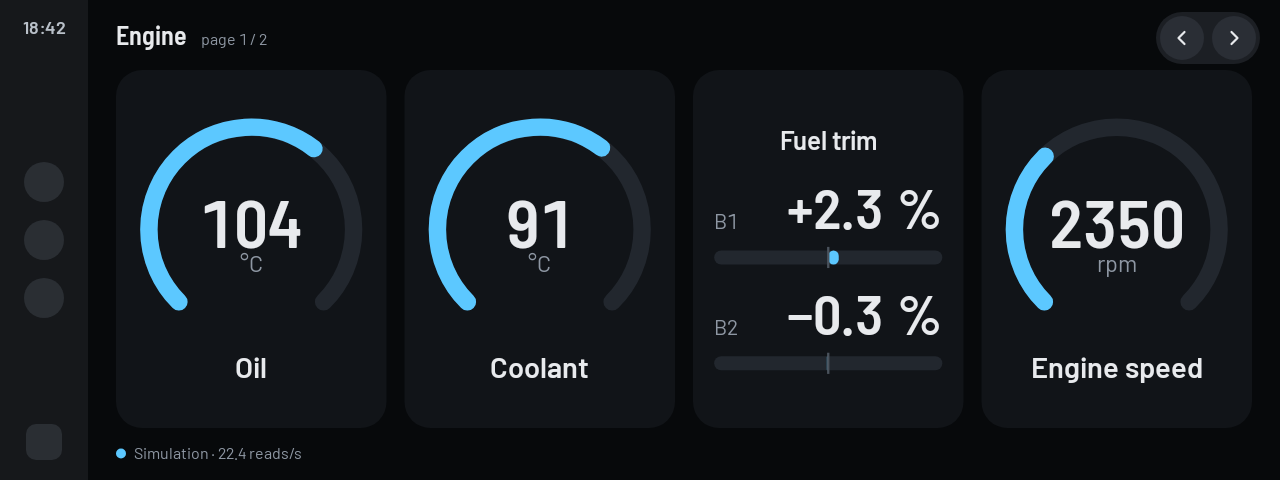
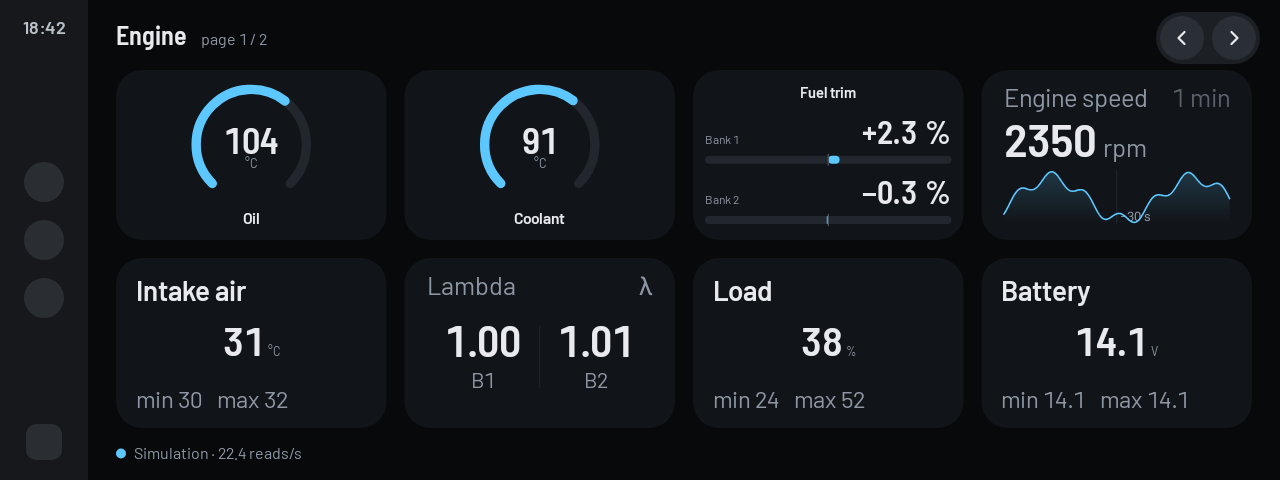
Android Auto pages hold up to 8 cards on the 4 x 2 grid; the phone mirror fills both rows

diff --git a/app/src/test/kotlin/io/github/jonathangtd/bimmerdata/dashboard/DashboardMirrorTest.kt b/app/src/test/kotlin/io/github/jonathangtd/bimmerdata/dashboard/DashboardMirrorTest.kt
@@ -16,17 +16,19 @@ class DashboardMirrorTest {
         Card(id = id, type = type, measurementIds = ids.toList(), col = col, row = row, colSpan = cs, title = id)
 
     @Test
-    fun `every phone card goes to Android Auto, four per page, in reading order`() {
+    fun `every phone card goes to Android Auto, eight per page on both rows, in reading order`() {
         val engine = Page(
-            id = "p1", name = "Engine", columns = 2, rows = 6,
+            id = "p1", name = "Engine", columns = 2, rows = 8,
             cards = listOf(
                 card("rpm", 0, 0, "msv70/1", type = GaugeType.Dial), card("load", 1, 0, "msv70/2", type = GaugeType.Dial),
                 card("stft", 0, 2, "msv70/3", "msv70/4", type = GaugeType.BipolarBar, cs = 2),
                 card("a", 0, 3, "msv70/5"), card("b", 1, 3, "msv70/6"),
                 card("cyl", 0, 4, "msv70/7", "msv70/8", "msv70/9", type = GaugeType.MultiValue, cs = 2),
+                card("c", 0, 5, "msv70/11"), card("d", 1, 5, "msv70/12"),
+                card("e", 0, 6, "msv70/13"), card("f", 1, 6, "msv70/14"),
             ),
         )
-        val info = Page(id = "p2", name = "Info", columns = 2, rows = 6, cards = listOf(card("oil", 1, 0, "msv70/10")))
+        val info = Page(id = "p2", name = "Info", columns = 2, rows = 6, cards = (0 until 4).map { card("i$it", it % 2, it / 2, "msv70/2$it") })
         val empty = Page(id = "p3", name = "Empty", columns = 2, rows = 6)
         val old = Page(id = "c1", name = "Old", columns = 4, rows = 1, cards = listOf(card("x", 0, 0, "msv70/99")))
         val d = Dashboard(phonePages = listOf(engine, info, empty), carPages = listOf(old))
@@ -34,10 +36,15 @@ class DashboardMirrorTest {
 
         val m = DashboardMirror.carFromPhone(d)
         assertEquals(listOf("Engine 1/2", "Engine 2/2", "Info"), m.carPages.map { it.name })
-        assertEquals(listOf("rpm", "load", "stft", "a"), m.carPages[0].cards.map { it.title })
-        assertEquals(listOf("b", "cyl"), m.carPages[1].cards.map { it.title })
-        assertEquals(2, m.carPages[1].columns)
-        assertTrue(m.carPages.flatMap { it.cards }.all { it.colSpan == 1 && it.rowSpan == 1 && it.row == 0 })
+        // 8 cards on the 4 x 2 grid, reading order row by row
+        val first = m.carPages[0]
+        assertEquals(4 to 2, first.columns to first.rows)
+        assertEquals(listOf("rpm", "load", "stft", "a", "b", "cyl", "c", "d"), first.cards.map { it.title })
+        assertEquals(listOf(0 to 0, 3 to 0, 0 to 1, 3 to 1), listOf(0, 3, 4, 7).map { first.cards[it].col to first.cards[it].row })
+        // 2 left: one row; 4 cards: 2 x 2
+        assertEquals(2 to 1, m.carPages[1].columns to m.carPages[1].rows)
+        assertEquals(2 to 2, m.carPages[2].columns to m.carPages[2].rows)
+        assertTrue(m.carPages.flatMap { it.cards }.all { it.colSpan == 1 && it.rowSpan == 1 })
         assertEquals(d.phonePages, m.phonePages)
         assertTrue(DashboardMirror.matches(m))
         // a valid layout: Android Auto limits, ids unique across the dashboard

diff --git a/app/src/main/kotlin/io/github/jonathangtd/bimmerdata/dashboard/DashboardMirror.kt b/app/src/main/kotlin/io/github/jonathangtd/bimmerdata/dashboard/DashboardMirror.kt
@@ -7,9 +7,10 @@ package io.github.jonathangtd.bimmerdata.dashboard
  * Android Auto shows the same cards as the phone: [carFromPhone] rebuilds the Android Auto pages
  * from the phone pages (the owner's rule for his profiles, offered to everyone as an action).
  *
- * Each phone page becomes one Android Auto page per [GridLimits.Car] `maxCards` cards, in the
- * phone's reading order (row, then column), one card per cell on a single row: "Engine" with 8
- * cards gives "Engine 1/2" and "Engine 2/2". Cards keep everything but their id and place.
+ * Each phone page becomes one Android Auto page per [GridLimits.Car] `maxCards` (8) cards, in the
+ * phone's reading order (row, then column), one card per cell, using both rows of the 4 x 2 grid
+ * from 4 cards on ([gridFor]): "Engine" with 10 cards gives "Engine 1/2" (8 cards) and
+ * "Engine 2/2" (2 cards). Cards keep everything but their id and place.
  */
 object DashboardMirror {
     fun carFromPhone(d: Dashboard): Dashboard {
@@ -23,16 +24,25 @@ object DashboardMirror {
         val pages = d.phonePages.flatMap { page ->
             val chunks = page.cards.sortedWith(compareBy({ it.row }, { it.col })).chunked(GridLimits.Car.maxCards)
             chunks.mapIndexed { i, chunk ->
+                val (columns, rows) = gridFor(chunk.size)
                 Page(
                     id = fresh(),
                     name = if (chunks.size == 1) page.name else "${page.name} ${i + 1}/${chunks.size}",
-                    columns = chunk.size,
-                    rows = 1,
-                    cards = chunk.mapIndexed { c, card -> card.copy(id = fresh(), col = c, row = 0, colSpan = 1, rowSpan = 1) },
+                    columns = columns,
+                    rows = rows,
+                    cards = chunk.mapIndexed { c, card -> card.copy(id = fresh(), col = c % columns, row = c / columns, colSpan = 1, rowSpan = 1) },
                 )
             }
         }
         return d.copy(carPages = pages)
+    }
+
+    /** columns x rows for [n] cards: 1-3 on one row, 4 as 2 x 2, 5-6 as 3 x 2, 7-8 as 4 x 2. */
+    fun gridFor(n: Int): Pair<Int, Int> = when {
+        n <= 3 -> n.coerceAtLeast(1) to 1
+        n == 4 -> 2 to 2
+        n <= 6 -> 3 to 2
+        else -> 4 to 2
     }
 
     /** True when Android Auto has exactly the phone's cards (type and values), whatever the order. */

diff --git a/app/src/main/kotlin/io/github/jonathangtd/bimmerdata/api/ApiService.kt b/app/src/main/kotlin/io/github/jonathangtd/bimmerdata/api/ApiService.kt
@@ -649,8 +649,8 @@ class ApiService(
             Route(
                 "POST", "/api/v1/dashboard/car/from-phone", RouteAccess.Needs(Scope.Layout), "Dashboard", "carFromPhone",
                 "Android Auto = the phone's cards",
-                "Replaces every Android Auto page by the cards of the phone pages: one Android Auto page per 4 cards of a phone page, " +
-                    "in the phone's reading order (\"Engine\" with 8 cards gives \"Engine 1/2\" and \"Engine 2/2\"), one card per cell. " +
+                "Replaces every Android Auto page by the cards of the phone pages: one Android Auto page per 8 cards of a phone page on its 4 x 2 grid (both rows used from 4 cards on), " +
+                    "in the phone's reading order (\"Engine\" with 10 cards gives \"Engine 1/2\" and \"Engine 2/2\"), one card per cell." +
                     "Cards keep their type, values, title, thresholds and decimals. Run it after changing the phone pages when Android Auto " +
                     "must show the same cards as the phone (layout rule of this API, see the dashboard docs).",
                 reply = Reply(description = "The new layout", schema = S.ref("Dashboard")),

diff --git a/app/src/test/kotlin/io/github/jonathangtd/bimmerdata/ReadmeScreenshotTest.kt b/app/src/test/kotlin/io/github/jonathangtd/bimmerdata/ReadmeScreenshotTest.kt
@@ -413,6 +413,15 @@ class ReadmeScreenshotTest {
     @Test
     fun androidAuto() {
         val context = ApplicationProvider.getApplicationContext<android.content.Context>()
-        save(CarScreen.render(context, Locale.ENGLISH, carPage, 0, 2, index, feed(), running, RecordingState()), "android_auto.png")
+        // the phone page plus two cards, rebuilt for Android Auto as the app does (8 cards, 4 x 2)
+        val phone8 = phonePage.copy(
+            rows = 7,
+            cards = phonePage.cards + listOf(
+                card(GaugeType.BigNumber, listOf(load), "Load", 0, 6, decimals = 0),
+                card(GaugeType.BigNumber, listOf(battery), "Battery", 1, 6, decimals = 1),
+            ),
+        )
+        val car8 = io.github.jonathangtd.bimmerdata.dashboard.DashboardMirror.carFromPhone(Dashboard(phonePages = listOf(phone8))).carPages.first()
+        save(CarScreen.render(context, Locale.ENGLISH, car8, 0, 2, index, feed(), running, RecordingState()), "android_auto.png")
     }
 }

diff --git a/app/src/test/kotlin/io/github/jonathangtd/bimmerdata/dashboard/DashboardModelTest.kt b/app/src/test/kotlin/io/github/jonathangtd/bimmerdata/dashboard/DashboardModelTest.kt
@@ -176,10 +176,12 @@ class DashboardModelTest {
     }
 
     @Test
-    fun `car pages hold at most four cards`() {
+    fun `car pages hold at most eight cards, one per cell of the 4 x 2 grid`() {
         val p = page(card("a", 0, 0), card("b", 1, 0), card("c", 2, 0), card("d", 3, 0), columns = 4, rows = 2)
-        assertNull(GridRules.add(p, card("e", 0, 1), GridLimits.Car))
-        assertNotNull(GridRules.add(p, card("e", 0, 1), GridLimits.Phone))
+        assertNotNull(GridRules.add(p, card("e", 0, 1), GridLimits.Car))
+        val full = (0 until 8).fold(page(columns = 4, rows = 2)) { acc, i -> GridRules.add(acc, card("c$i", i % 4, i / 4), GridLimits.Car)!! }
+        assertEquals(8, full.cards.size)
+        assertNull(GridRules.add(full, card("x", 0, 0), GridLimits.Car))
     }
 
     // ---- grid size ----

diff --git a/app/src/main/kotlin/io/github/jonathangtd/bimmerdata/dashboard/DashboardModel.kt b/app/src/main/kotlin/io/github/jonathangtd/bimmerdata/dashboard/DashboardModel.kt
@@ -11,11 +11,11 @@ import java.util.UUID
 @Serializable
 enum class Target { Phone, Car }
 
-/** Grid size limits per target. Android Auto pages stay simple: few, big cards. */
+/** Grid size limits per target. Android Auto: a 4 x 2 grid, at most 8 cards (one per cell). */
 data class GridLimits(val maxColumns: Int, val maxRows: Int, val maxCards: Int) {
     companion object {
         val Phone = GridLimits(maxColumns = 4, maxRows = 8, maxCards = 32)
-        val Car = GridLimits(maxColumns = 4, maxRows = 2, maxCards = 4)
+        val Car = GridLimits(maxColumns = 4, maxRows = 2, maxCards = 8)
         fun of(target: Target) = if (target == Target.Phone) Phone else Car
     }
 }

diff --git a/docs/API.md b/docs/API.md
@@ -200,7 +200,7 @@ curl -s -H "$H" "$BD/recordings/bimmerdata_2026-11-08_14-03-12.csv" -o run.csv
 
 ### Layout rules
 
-- Phone pages: up to 4 columns × 8 rows, 32 cards. Android Auto pages: up to 4 × 2, 4 cards.
+- Phone pages: up to 4 columns × 8 rows, 32 cards. Android Auto pages: up to 4 × 2, 8 cards.
 - A card covers `colSpan × rowSpan` cells from (`col`, `row`), 0-based; cards may not overlap
   or leave the grid.
 - Card types: `Dial`, `BipolarBar` (1–4 measurements), `BigNumber`, `Trend`, `MultiValue`
@@ -213,7 +213,7 @@ curl -s -H "$H" "$BD/recordings/bimmerdata_2026-11-08_14-03-12.csv" -o run.csv
 - **Android Auto shows the same cards as the phone** (the order may differ): every card of the
   phone pages is on an Android Auto page, and Android Auto has no other card. After creating or
   changing phone pages, call `POST /api/v1/dashboard/car/from-phone`: it rebuilds the Android Auto
-  pages from the phone pages (4 cards per Android Auto page, "Engine 1/2", "Engine 2/2"…). For a
+  pages from the phone pages (up to 8 cards per Android Auto page on its 4 × 2 grid, "Engine 1/2", "Engine 2/2"…). For a
   profile file, build `carPages` the same way. The app does not refuse a layout that breaks the
   rule (older or shared profiles), but an agent must not create one.
 - Unknown JSON fields are rejected (400), so typos do not silently vanish.
